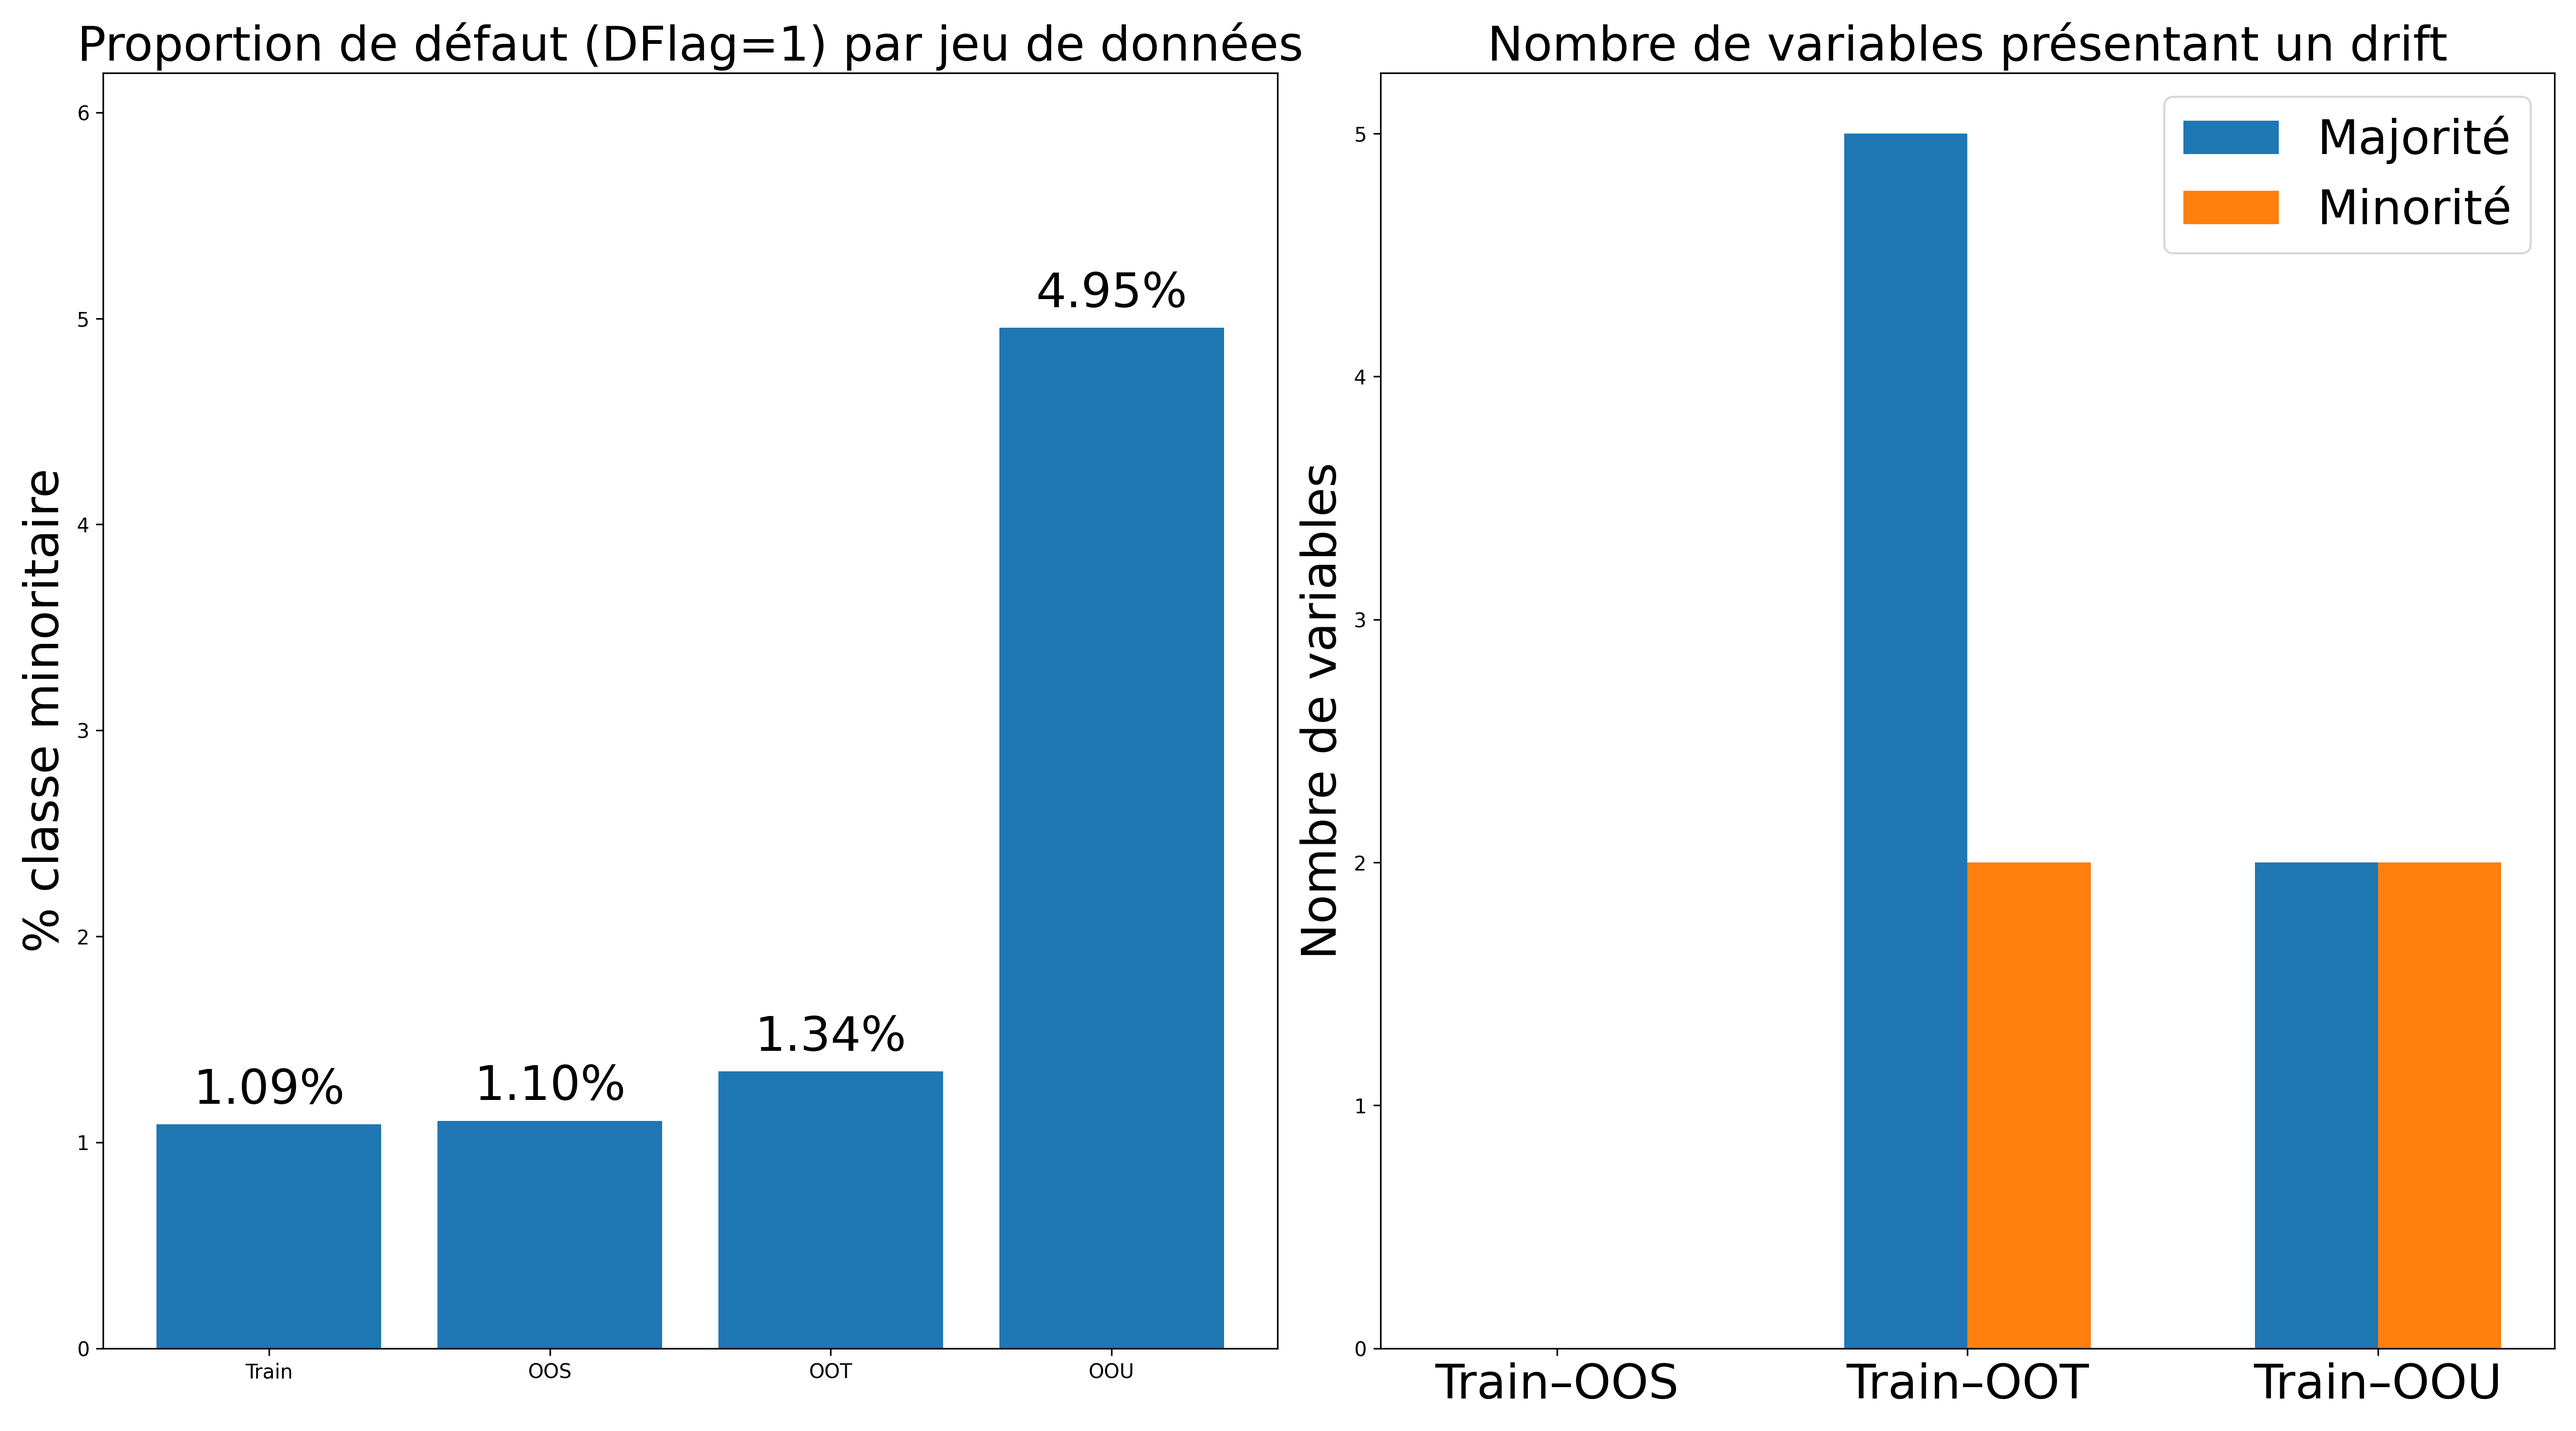
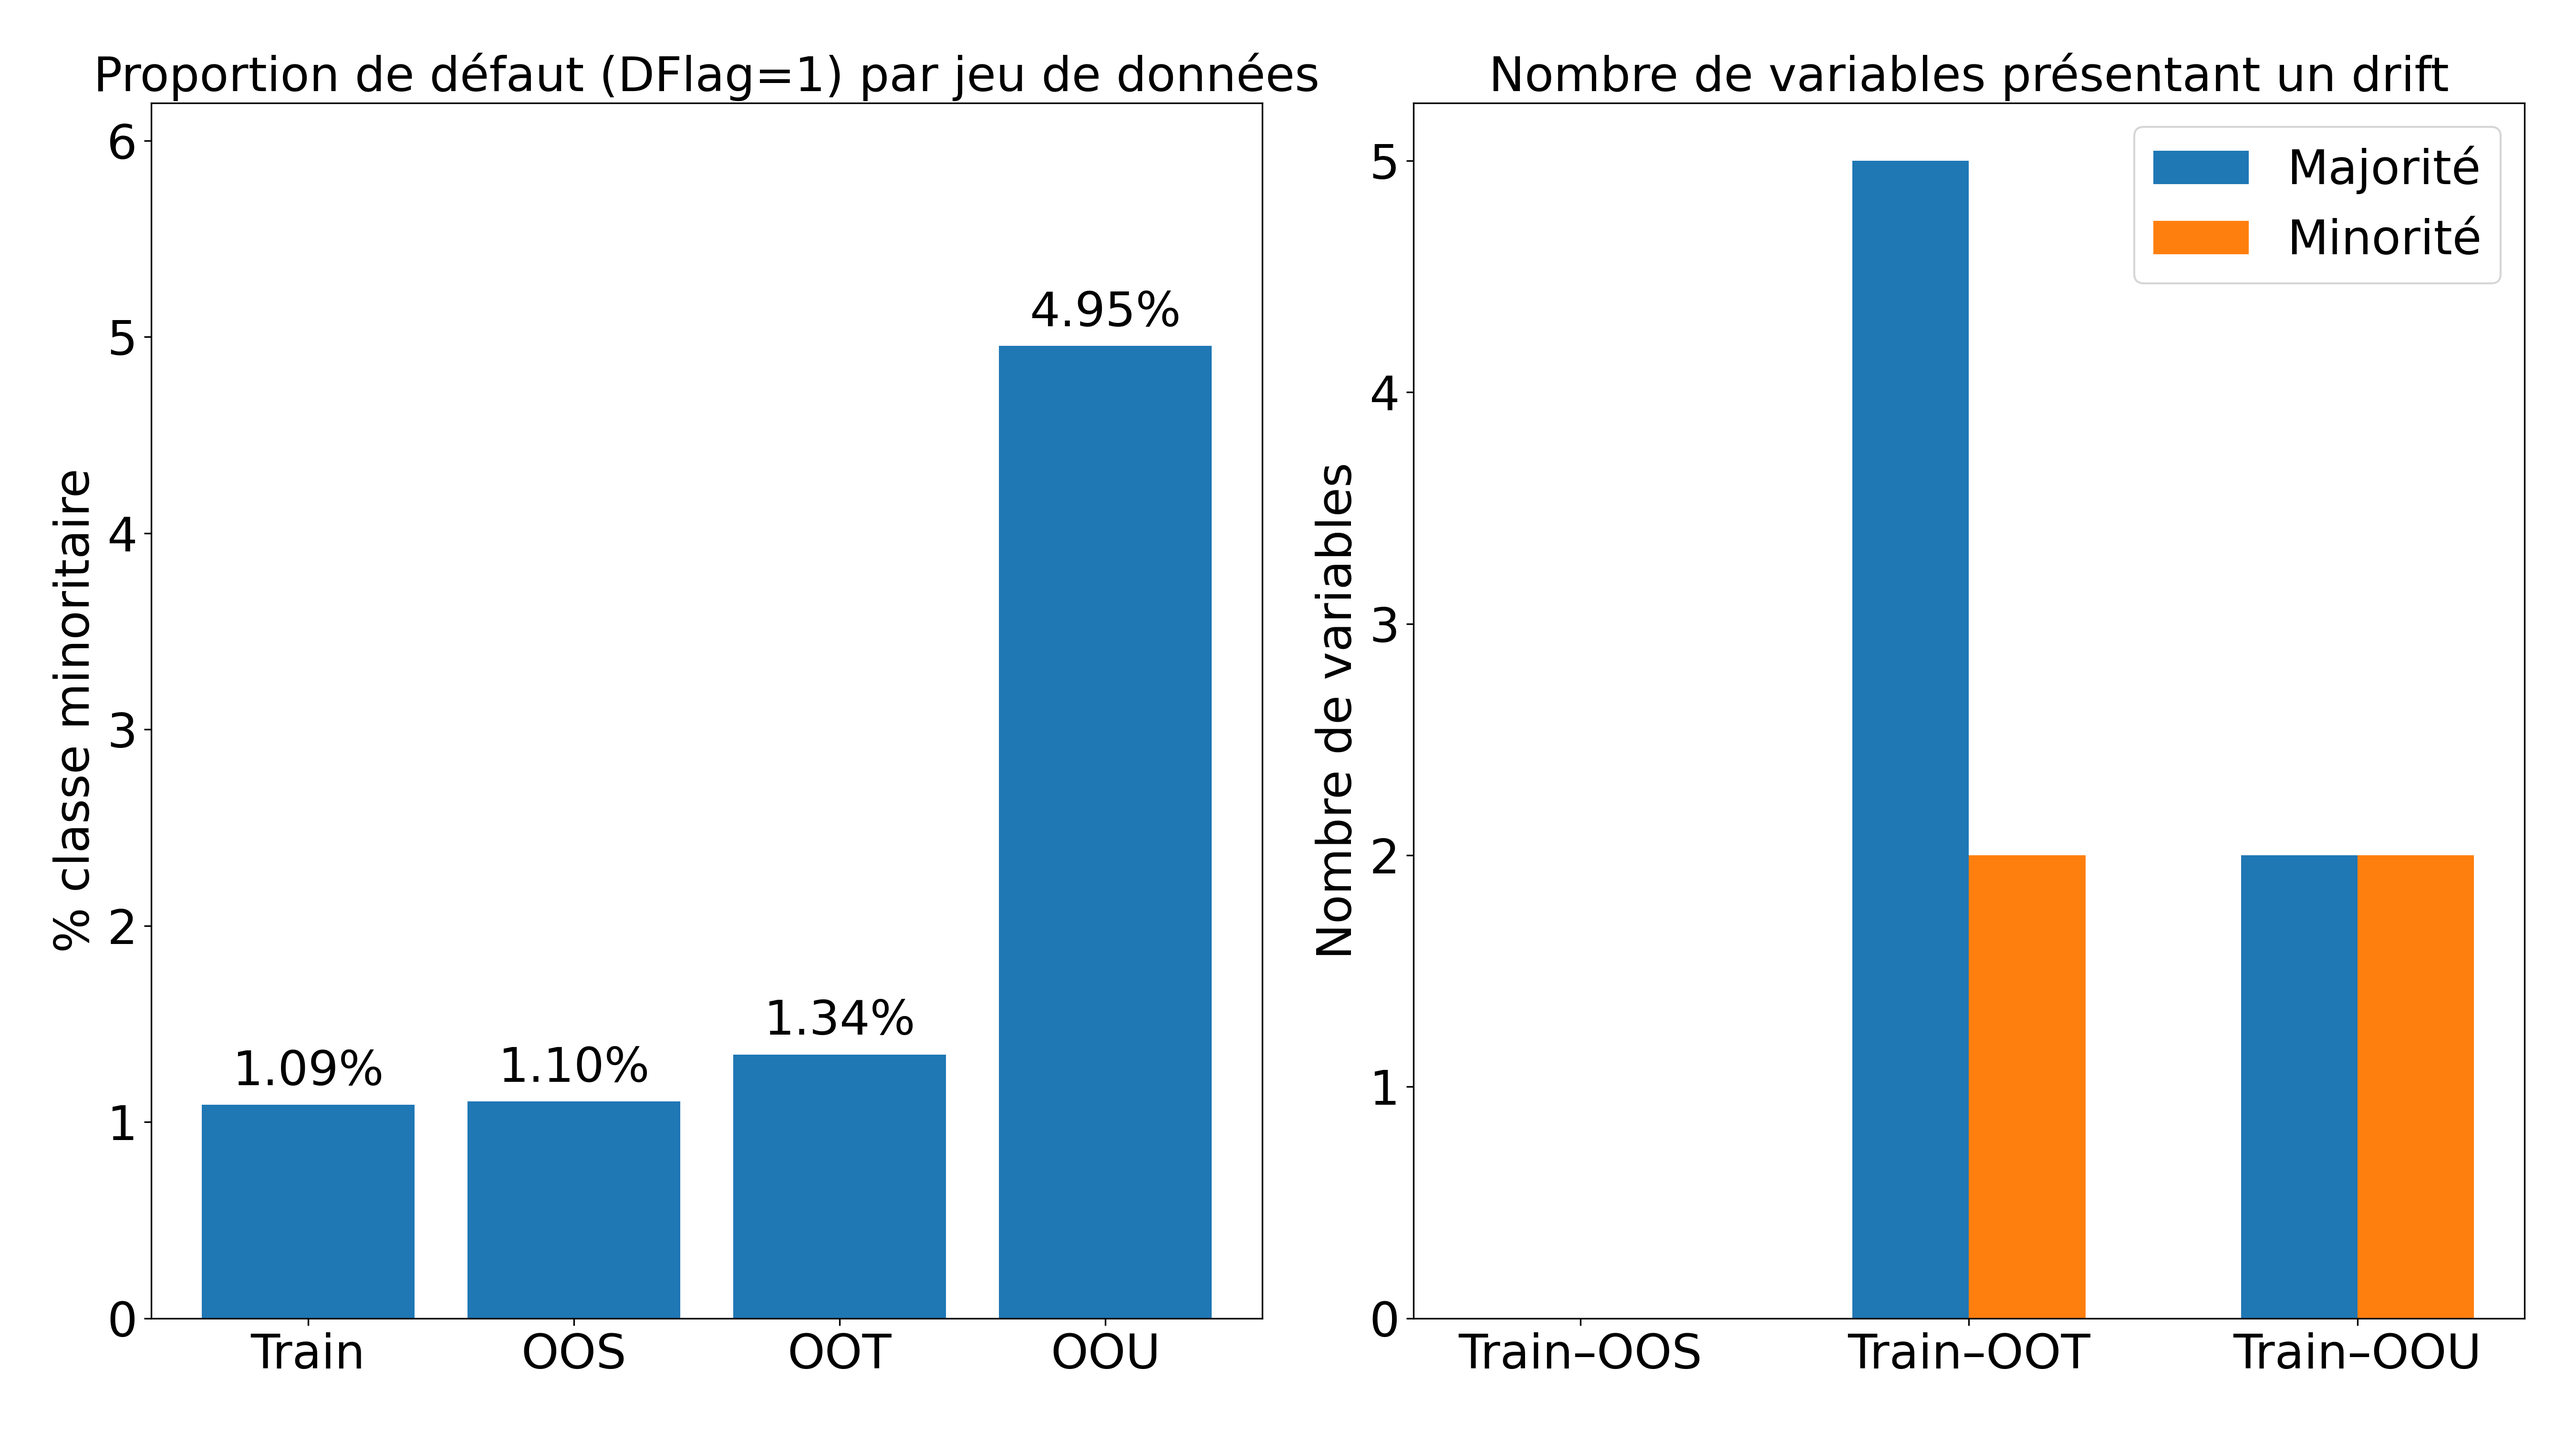
fix: Change fontsize

diff --git a/src/explore_data.py b/src/explore_data.py
@@ -40,6 +40,8 @@ def get_drift(data_train, data_oos, data_oot, data_oou, output_path):
         "Train–OOU": 2
     }
 
+    plt.rcParams.update({'font.size': 24})
+
     _, axes = plt.subplots(1, 2, figsize=(18, 10))
 
     ax1 = axes[0]
